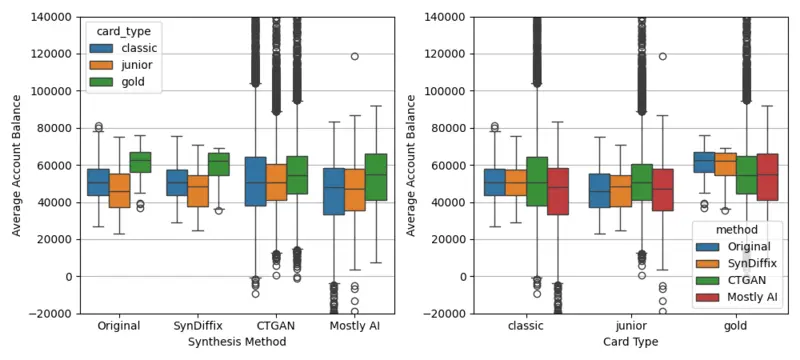
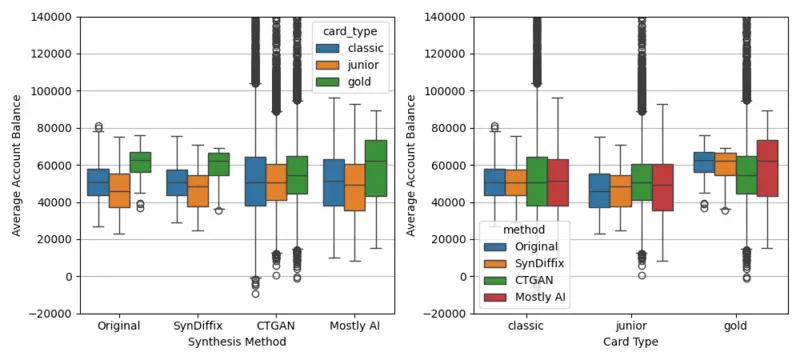
Deploying to gh-pages from @ diffix/diffix.github.io@a883c35580f94e7ebebc2cd2ef4d348e541bde79 🚀

diff --git a/syndiffix-mostlyai-ctgan.html b/syndiffix-mostlyai-ctgan.html
@@ -1,1 +1,1 @@
-<!DOCTYPE html> <html lang="en"> <head> <meta http-equiv="Content-Type" content="text/html; charset=UTF-8"> <meta charset="utf-8"> <meta name="viewport" content="width=device-width, initial-scale=1, shrink-to-fit=no"> <meta http-equiv="X-UA-Compatible" content="IE=edge"> <title>Comparison of SynDiffix, Mostly AI, and CTGAN | Open Diffix</title> <meta name="author" content="Open Diffix"> <meta name="description" content="Strong Anonymization for Structured Data. Open. Free. "> <meta name="keywords" content="Diffix, Anonymization, Privacy, Synthetic Data"> <link rel="stylesheet" href="/assets/css/bootstrap.min.css?a4b3f509e79c54a512b890d73235ef04"> <link rel="stylesheet" href="https://cdn.jsdelivr.net/npm/mdbootstrap@4.20.0/css/mdb.min.css" integrity="sha256-jpjYvU3G3N6nrrBwXJoVEYI/0zw8htfFnhT9ljN3JJw=" crossorigin="anonymous"> <link defer rel="stylesheet" href="https://unpkg.com/bootstrap-table@1.22.1/dist/bootstrap-table.min.css"> <link rel="stylesheet" href="/assets/css/academicons.min.css?f0b7046b84e425c55f3463ac249818f5"> <link rel="stylesheet" type="text/css" href="https://fonts.googleapis.com/css?family=Roboto:300,400,500,700|Roboto+Slab:100,300,400,500,700|Material+Icons"> <link rel="stylesheet" href="/assets/css/jekyll-pygments-themes-github.css?19f3075a2d19613090fe9e16b564e1fe" media="" id="highlight_theme_light"> <link rel="shortcut icon" href="/assets/img/favicon.ico?7eb2bb23eedae5da2c9d3ad96310e408"> <link rel="stylesheet" href="/assets/css/main.css?d41d8cd98f00b204e9800998ecf8427e"> <link rel="canonical" href="https://www.open-diffix.org/syndiffix-mostlyai-ctgan"> </head> <body class="fixed-top-nav sticky-bottom-footer"> <header> <nav id="navbar" class="navbar navbar-light navbar-expand-sm fixed-top"> <div class="container"> <a class="navbar-brand title font-weight-lighter" href="/"> <img src="/assets/img/logo-flat.png" alt="Open Diffix Logo" width="26" height="26" style="margin-top: -2px; margin-right: 1px;"> <span class="font-weight-bold"> <span style="color: #0eb896;">Open</span> <span style="color: #3385e1;">Diffix</span> </span> </a> <button class="navbar-toggler collapsed ml-auto" type="button" data-toggle="collapse" data-target="#navbarNav" aria-controls="navbarNav" aria-expanded="false" aria-label="Toggle navigation"> <span class="sr-only">Toggle navigation</span> <span class="icon-bar top-bar"></span> <span class="icon-bar middle-bar"></span> <span class="icon-bar bottom-bar"></span> </button> <div class="collapse navbar-collapse text-right" id="navbarNav"> <ul class="navbar-nav ml-auto flex-nowrap"> <li class="nav-item "> <a class="nav-link" href="/">Home</a> </li> <li class="nav-item "> <a class="nav-link" href="/syndiffix">SynDiffix</a> </li> </ul> </div> </div> </nav> <progress id="progress" value="0"> <div class="progress-container"> <span class="progress-bar"></span> </div> </progress> </header> <div class="container mt-5"> <div class="post"> <header class="post-header"> <h1 class="post-title">Comparison of SynDiffix, Mostly AI, and CTGAN</h1> <p class="post-description"></p> </header> <article> <p>Compared to other commercial and open-source data synthesis tools, the strength of SynDiffix is its accuracy. Here we compare the accuracy of open-source SynDiffix with the commercial tool <a href="https://mostly.ai" rel="external nofollow noopener" target="_blank">Mostly AI</a> and the open-source tool CTGAN from <a href="https://sdv.dev/" rel="external nofollow noopener" target="_blank">SDV</a>.</p> <p>For this comparison, we use the <a href="https://data.world/lpetrocelli/czech-financial-dataset-real-anonymized-transactions" rel="external nofollow noopener" target="_blank">Czech banking dataset</a>. See <a href="#how-the-synthetic-data-was-created">here</a> for a description of how we generated the synthetic datasets. Note in particular that we used the tools as they were designed to be used: multiple synthetic datasets for SynDiffix, and single datasets for Mostly AI and CTGAN. See <a href="#how-the-comparison-is-and-isnt-fair">here</a> for a discussion of how this comparison is and isn’t fair.</p> <p>The code for some of the following examples can be found <a href="https://github.com/diffix/syndiffix/blob/main/docs/time-series.ipynb" rel="external nofollow noopener" target="_blank">here</a>.</p> <h2 id="distribution-of-deposit-and-withdrawal-amounts">Distribution of deposit and withdrawal amounts</h2> <p>There are five types of transaction operations. One of them represents deposits (VKLAD), while the other four represent different types of withdrawals (at least as near as we can tell from the Czech translations).</p> <p>The following graph shows the distribution of deposit and withdrawal amounts for all transactions. Each line is independently sorted from largest to smallest amount. The group of lines on the left are for deposits, which are less numerous.</p> <p><img src="/assets/img/trans_account_card_clients.amount.operation.png" alt="SynDiffix usage style" class="img-fluid mx-auto d-block" style="max-width: 400px; width: 100%;"></p> <p>The SynDiffix data was created be first creating a two-column table from the original data consisting of transaction <code class="language-plaintext highlighter-rouge">amount</code> and transaction <code class="language-plaintext highlighter-rouge">type</code>. This was then synthesized to produce the synthetic dataset.</p> <p>The important thing to note is that the SynDiffix lines almost perfectly track the original lines. Note that it was necessary to make the Original line thicker so that it is not completely occluded by the SynDiffix line.</p> <p>For withdrawals, Mostly AI tracks the original data very well until the lower right, where Mostly AI fails to accurately track a series of nearly 200k withdrawals all at around 150 units. Mostly AI also tracks original deposits well, except that there are a small number of small deposits that don’t appear in the original data. CTGAN is substantially less accurate overall.</p> <h2 id="total-transaction-volume-per-month">Total transaction volume per month</h2> <p>The following plot shows the total transaction volume (sum of all transaction amounts) for each month. The two smaller plots zoom in on the two boxed areas.</p> <p><img src="/assets/img/trans_account_card_clients.amount.month.grid.png" alt="SynDiffix usage style" class="img-fluid mx-auto d-block" style="max-width: 600px; width: 100%;"></p> <p>The SynDiffix data was produced by rounding the transaction date to the month, and then producing a two-column table with <code class="language-plaintext highlighter-rouge">month</code> and <code class="language-plaintext highlighter-rouge">amount</code>. This table was then synthesized.</p> <p>Once again, the SynDiffix line tracks the original data almost perfectly. The zoom-in plots show a very slight difference from the original data.</p> <p>Mostly AI tracks the original data quite well until the last year, where it diverges substantially. The two zoom-in boxes show that even where Mostly AI tracks well, it is still substantially less accurate than SynDiffix. The CTGAN line manages to show the correct upward trend, but otherwise is quite inaccurate.</p> <h2 id="distribution-of-maximum-balance-for-all-accounts">Distribution of maximum balance for all accounts</h2> <p>The following plot gives the distribution of the maximum balance for each account. Each line is sorted independently from highest to lowest maximum balance.</p> <p><img src="/assets/img/trans_account_card_clients.max_balance.png" alt="SynDiffix usage style" class="img-fluid mx-auto d-block" style="max-width: 400px; width: 100%;"></p> <p>The SynDiffix data was produced by first computing the maximum balance for each account from the original data, creating a one-column table consisting of the maximum balance, with one row per account. This was then synthesized.</p> <p>The CTGAN line is not shown because it is too far away from the other lines.</p> <p>SynDiffix tracks the original data almost perfectly, with the exception that a small number of the highest maximum balances are not tracked. SynDiffix suppresses these values because they are outliers that pertain to too few accounts. The Mostly AI line is far less accurate.</p> <h2 id="how-the-synthetic-data-was-created">How the synthetic data was created</h2> <p>The Czech banking dataset has seven relational tables. Three of them (loans, orders, and transactions) are time-series tables. The others contain information about clients (banking customers), accounts, and credit cards. To build the synthetic datasets, we joined the client, account, and credit card information with the time-series data to create three extended tables. We then built three synthetic datasets each for Mostly AI and CTGAN from the three extended tables.</p> <p>Our comparison uses only the extended transactions table. It has the following 21 columns:</p> <table> <thead> <tr> <th>Column</th> <th>Source table</th> </tr> </thead> <tbody> <tr> <td>trans_id</td> <td>trans</td> </tr> <tr> <td>account_id</td> <td>trans</td> </tr> <tr> <td>date</td> <td>trans</td> </tr> <tr> <td>type</td> <td>trans</td> </tr> <tr> <td>operation</td> <td>trans</td> </tr> <tr> <td>amount</td> <td>trans</td> </tr> <tr> <td>balance</td> <td>trans</td> </tr> <tr> <td>k_symbol</td> <td>trans</td> </tr> <tr> <td>bank</td> <td>trans</td> </tr> <tr> <td>account</td> <td>trans</td> </tr> <tr> <td>district_id</td> <td>account</td> </tr> <tr> <td>frequency</td> <td>account</td> </tr> <tr> <td>account_date</td> <td>account</td> </tr> <tr> <td>card_type</td> <td>card</td> </tr> <tr> <td>card_issued</td> <td>card</td> </tr> <tr> <td>owner_birth</td> <td>client</td> </tr> <tr> <td>owner_district_id</td> <td>client</td> </tr> <tr> <td>owner_sex</td> <td>client</td> </tr> <tr> <td>disponent_birth</td> <td>client</td> </tr> <tr> <td>disponent_district_id</td> <td>client</td> </tr> <tr> <td>disponent_sex</td> <td>client</td> </tr> </tbody> </table> <p>To make the Mostly AI synthetic dataset, we used the free service available at <a href="https://mostly.ai" rel="external nofollow noopener" target="_blank">mostly.ai</a>. We used the subject-linked option, which captures the time series aspect of the data. We built a synthetic dataset with the same number of accounts (4500) and nearly the same number of rows (1059409) as the original table.</p> <p>To make the CTGAN synthetic dataset, we used the SDV Python tool. SDV has options for synthesizing both time-series and non-time-series, but unfortunately we were unable to make a time-series dataset because our system did not have enough memory (the system had 1.5TB of memory, but this was not enough). Therefore, we used the non-time-series option to build a synthetic dataset with the same number of rows as the original table (1056320), but with around 10k accounts.</p> <p>Both the Mostly AI and CTGAN datasets were built using system defaults.</p> <h2 id="how-the-comparison-is-and-isnt-fair">How the comparison is and isn’t fair</h2> <p>The usage style of SynDiffix is different from that of other synthetic data tools. SynDiffix is designed to remain anonymous no matter how many different synthetic datasets are built from the original data. This allows us to build synthetic datasets containing only the columns of interest for the given analysis question. This maximizes accuracy. We built a separate SynDiffix synthetic dataset for each of the comparison examples.</p> <p>By contrast, we built only a single transactions synthetic dataset each for Mostly AI and CTGAN. All of the comparison examples used these datasets. In principle, we could have also built separate datasets for each comparison example for Mostly AI and CTGAN. Doing so would have resulted in better accuracy (though probably still not as good as SynDiffix, as <a href="https://arxiv.org/abs/2311.09628" rel="external nofollow noopener" target="_blank">this paper</a> shows). In this sense, the comparison is not apples-to-apples.</p> <p>Nevertheless, we choose to make the comparison this way for the following reasons:</p> <h3 id="synthetic-data-products-are-marketed-as-one-size-fits-all">Synthetic data products are marketed as one-size-fits-all</h3> <p>Synthetic data products are marketed as one-size-fits-all: the promise is that a single dataset accurately captures the statistical characteristics of the original data. It seems fair to take this marketing at its word, and use it as it is designed to be used.</p> <h3 id="the-privacy-of-synthetic-data-products-erodes-with-multiple-syntheses">The privacy of synthetic data products erodes with multiple syntheses</h3> <p>Unlike SynDiffix, the anonymity of other synthetic data products weakens with each data synthesis, at least in theory. As such, a comparison of multiple SynDiffix synthetic datasets against a single Mostly AI or CTGAN synthetic dataset is fair from a privacy perspective. Whether generating a large number of synthetic datasets with other products results in real risks in practice is unknown, though it does seem unlikely that generating a relatively small number of datasets leads to practical risks.</p> </article> </div> </div> <footer class="sticky-bottom mt-5"> <div class="container"> © Copyright 2024 Open Diffix. Powered by <a href="https://jekyllrb.com/" target="_blank" rel="external nofollow noopener">Jekyll</a> with <a href="https://github.com/alshedivat/al-folio" rel="external nofollow noopener" target="_blank">al-folio</a> theme. Hosted by <a href="https://pages.github.com/" target="_blank" rel="external nofollow noopener">GitHub Pages</a>. </div> </footer> <script src="https://cdn.jsdelivr.net/npm/jquery@3.6.0/dist/jquery.min.js" integrity="sha256-/xUj+3OJU5yExlq6GSYGSHk7tPXikynS7ogEvDej/m4=" crossorigin="anonymous"></script> <script src="/assets/js/bootstrap.bundle.min.js"></script> <script src="https://cdn.jsdelivr.net/npm/mdbootstrap@4.20.0/js/mdb.min.js" integrity="sha256-NdbiivsvWt7VYCt6hYNT3h/th9vSTL4EDWeGs5SN3DA=" crossorigin="anonymous"></script> <script defer src="https://cdn.jsdelivr.net/npm/medium-zoom@1.0.8/dist/medium-zoom.min.js" integrity="sha256-7PhEpEWEW0XXQ0k6kQrPKwuoIomz8R8IYyuU1Qew4P8=" crossorigin="anonymous"></script> <script defer src="/assets/js/zoom.js?7b30caa5023af4af8408a472dc4e1ebb"></script> <script defer src="https://unpkg.com/bootstrap-table@1.22.1/dist/bootstrap-table.min.js"></script> <script src="/assets/js/no_defer.js?d633890033921b33e0ceb13d22340a9c"></script> <script defer src="/assets/js/common.js?acdb9690d7641b2f8d40529018c71a01"></script> <script defer src="/assets/js/copy_code.js?c9d9dd48933de3831b3ee5ec9c209cac" type="text/javascript"></script> <script type="text/javascript">window.MathJax={tex:{tags:"ams"}};</script> <script defer type="text/javascript" id="MathJax-script" src="https://cdn.jsdelivr.net/npm/mathjax@3.2.0/es5/tex-mml-chtml.js"></script> <script defer src="https://polyfill.io/v3/polyfill.min.js?features=es6"></script> <script type="text/javascript">function progressBarSetup(){"max"in document.createElement("progress")?(initializeProgressElement(),$(document).on("scroll",function(){progressBar.attr({value:getCurrentScrollPosition()})}),$(window).on("resize",initializeProgressElement)):(resizeProgressBar(),$(document).on("scroll",resizeProgressBar),$(window).on("resize",resizeProgressBar))}function getCurrentScrollPosition(){return $(window).scrollTop()}function initializeProgressElement(){let e=$("#navbar").outerHeight(!0);$("body").css({"padding-top":e}),$("progress-container").css({"padding-top":e}),progressBar.css({top:e}),progressBar.attr({max:getDistanceToScroll(),value:getCurrentScrollPosition()})}function getDistanceToScroll(){return $(document).height()-$(window).height()}function resizeProgressBar(){progressBar.css({width:getWidthPercentage()+"%"})}function getWidthPercentage(){return getCurrentScrollPosition()/getDistanceToScroll()*100}const progressBar=$("#progress");window.onload=function(){setTimeout(progressBarSetup,50)};</script> </body> </html>
+<!DOCTYPE html> <html lang="en"> <head> <meta http-equiv="Content-Type" content="text/html; charset=UTF-8"> <meta charset="utf-8"> <meta name="viewport" content="width=device-width, initial-scale=1, shrink-to-fit=no"> <meta http-equiv="X-UA-Compatible" content="IE=edge"> <title>Comparison of SynDiffix, Mostly AI, and CTGAN | Open Diffix</title> <meta name="author" content="Open Diffix"> <meta name="description" content="Strong Anonymization for Structured Data. Open. Free. "> <meta name="keywords" content="Diffix, Anonymization, Privacy, Synthetic Data"> <link rel="stylesheet" href="/assets/css/bootstrap.min.css?a4b3f509e79c54a512b890d73235ef04"> <link rel="stylesheet" href="https://cdn.jsdelivr.net/npm/mdbootstrap@4.20.0/css/mdb.min.css" integrity="sha256-jpjYvU3G3N6nrrBwXJoVEYI/0zw8htfFnhT9ljN3JJw=" crossorigin="anonymous"> <link defer rel="stylesheet" href="https://unpkg.com/bootstrap-table@1.22.1/dist/bootstrap-table.min.css"> <link rel="stylesheet" href="/assets/css/academicons.min.css?f0b7046b84e425c55f3463ac249818f5"> <link rel="stylesheet" type="text/css" href="https://fonts.googleapis.com/css?family=Roboto:300,400,500,700|Roboto+Slab:100,300,400,500,700|Material+Icons"> <link rel="stylesheet" href="/assets/css/jekyll-pygments-themes-github.css?19f3075a2d19613090fe9e16b564e1fe" media="" id="highlight_theme_light"> <link rel="shortcut icon" href="/assets/img/favicon.ico?7eb2bb23eedae5da2c9d3ad96310e408"> <link rel="stylesheet" href="/assets/css/main.css?d41d8cd98f00b204e9800998ecf8427e"> <link rel="canonical" href="https://www.open-diffix.org/syndiffix-mostlyai-ctgan"> </head> <body class="fixed-top-nav sticky-bottom-footer"> <header> <nav id="navbar" class="navbar navbar-light navbar-expand-sm fixed-top"> <div class="container"> <a class="navbar-brand title font-weight-lighter" href="/"> <img src="/assets/img/logo-flat.png" alt="Open Diffix Logo" width="26" height="26" style="margin-top: -2px; margin-right: 1px;"> <span class="font-weight-bold"> <span style="color: #0eb896;">Open</span> <span style="color: #3385e1;">Diffix</span> </span> </a> <button class="navbar-toggler collapsed ml-auto" type="button" data-toggle="collapse" data-target="#navbarNav" aria-controls="navbarNav" aria-expanded="false" aria-label="Toggle navigation"> <span class="sr-only">Toggle navigation</span> <span class="icon-bar top-bar"></span> <span class="icon-bar middle-bar"></span> <span class="icon-bar bottom-bar"></span> </button> <div class="collapse navbar-collapse text-right" id="navbarNav"> <ul class="navbar-nav ml-auto flex-nowrap"> <li class="nav-item "> <a class="nav-link" href="/">Home</a> </li> <li class="nav-item "> <a class="nav-link" href="/syndiffix">SynDiffix</a> </li> </ul> </div> </div> </nav> <progress id="progress" value="0"> <div class="progress-container"> <span class="progress-bar"></span> </div> </progress> </header> <div class="container mt-5"> <div class="post"> <header class="post-header"> <h1 class="post-title">Comparison of SynDiffix, Mostly AI, and CTGAN</h1> <p class="post-description"></p> </header> <article> <p>Compared to other commercial and open-source data synthesis tools, the strength of SynDiffix is its accuracy. Here we compare the accuracy of open-source SynDiffix with the commercial tool <a href="https://mostly.ai" rel="external nofollow noopener" target="_blank">Mostly AI</a> and the open-source tool CTGAN from <a href="https://sdv.dev/" rel="external nofollow noopener" target="_blank">SDV</a>.</p> <p>For this comparison, we use the <a href="https://data.world/lpetrocelli/czech-financial-dataset-real-anonymized-transactions" rel="external nofollow noopener" target="_blank">Czech banking dataset</a>. See <a href="#how-the-synthetic-data-was-created">here</a> for a description of how we generated the synthetic datasets. Note in particular that we used the tools as they were designed to be used: multiple synthetic datasets for SynDiffix, and single datasets for Mostly AI and CTGAN. See <a href="#how-the-comparison-is-and-isnt-fair">here</a> for a discussion of how this comparison is and isn’t fair.</p> <p>The code for some of the following examples can be found <a href="https://github.com/diffix/syndiffix/blob/main/docs/time-series.ipynb" rel="external nofollow noopener" target="_blank">here</a>.</p> <h2 id="average-account-balance-by-type-of-credit-card">Average account balance by type of credit card</h2> <p>892 of the 4500 bank accounts have credit cards. There are three classes of card, ‘junior’, ‘classic’, and ‘gold’. Here we ask the question, “Does the average account balance differ based on the credit card class?”</p> <p>The following graphs are percentile boxplots (100th, 75th, 50th, 25th, and 0th percentiles, plus outliers) of the average account balance for each account with a credit card. The two plots show the same data, but grouped by synthesis method on the left, and by card type on the right.</p> <p><img src="/assets/img/trans_account_card_clients.avg_balance.card_type.png" alt="SynDiffix usage style" class="img-fluid mx-auto d-block" style="max-width: 650px; width: 100%;"></p> <p>The SynDiffix synthetic data was produced by first computing the average balance per account from the original data to produce a two-column table consisting of the <code class="language-plaintext highlighter-rouge">avg_balance</code> and the <code class="language-plaintext highlighter-rouge">card_type</code>, with one row per account (i.e. not time-series data). This two-column table was then synthesized.</p> <p>From the original data, we see that indeed gold credit card holders have higher average account balances than classic card holders, which in turn are a little higher than junior card holders. The data for SynDiffix is very close to the original data, and accurately shows the same trend. The high and low values are pulled in a little bit, which is due to SynDiffix’ tendency to hide outlier values.</p> <p>Mostly AI also shows the same trend, and the median account balances track the original data very closely. In contrast to SynDiffix, the high and low account balances tend to be spread out.</p> <p>While CTGAN shows the median account balance to be slightly higher for gold card holders, overall it does not capture the trend. Its high and low values are extreme, in some cases showing negative balances where none should exist.</p> <h2 id="distribution-of-deposit-and-withdrawal-amounts">Distribution of deposit and withdrawal amounts</h2> <p>There are five types of transaction operations. One of them represents deposits (VKLAD), while the other four represent different types of withdrawals (at least as near as we can tell from the Czech translations).</p> <p>The following graph shows the distribution of deposit and withdrawal amounts for all transactions. Each line is independently sorted from largest to smallest amount. The group of lines on the left are for deposits, which are less numerous.</p> <p><img src="/assets/img/trans_account_card_clients.amount.operation.png" alt="SynDiffix usage style" class="img-fluid mx-auto d-block" style="max-width: 400px; width: 100%;"></p> <p>The SynDiffix data was created be first creating a two-column table from the original data consisting of transaction <code class="language-plaintext highlighter-rouge">amount</code> and transaction <code class="language-plaintext highlighter-rouge">type</code>. This was then synthesized to produce the synthetic dataset.</p> <p>The important thing to note is that the SynDiffix lines almost perfectly track the original lines. Note that it was necessary to make the Original line thicker so that it is not completely occluded by the SynDiffix line.</p> <p>For withdrawals, Mostly AI tracks the original data very well until the lower right, where Mostly AI fails to accurately track a series of nearly 200k withdrawals all at around 150 units. Mostly AI also tracks original deposits well, except that there are a small number of small deposits that don’t appear in the original data. CTGAN is substantially less accurate overall.</p> <h2 id="total-transaction-volume-per-month">Total transaction volume per month</h2> <p>The following plot shows the total transaction volume (sum of all transaction amounts) for each month.</p> <p><img src="/assets/img/trans_account_card_clients.amount.month.png" alt="SynDiffix usage style" class="img-fluid mx-auto d-block" style="max-width: 400px; width: 100%;"></p> <p>The SynDiffix data was produced by rounding the transaction date to the month, and then producing a two-column table with <code class="language-plaintext highlighter-rouge">month</code> and <code class="language-plaintext highlighter-rouge">amount</code>. This table was then synthesized.</p> <p>Once again, the SynDiffix line tracks the original data almost perfectly.</p> <p>While both the Mostly AI and CTGAN transactions have the right increasing trend, both are quite inaccurate.</p> <h2 id="distribution-of-maximum-balance-for-all-accounts">Distribution of maximum balance for all accounts</h2> <p>The following plot gives the distribution of the maximum balance for each account. Each line is sorted independently from highest to lowest maximum balance.</p> <p><img src="/assets/img/trans_account_card_clients.max_balance.png" alt="SynDiffix usage style" class="img-fluid mx-auto d-block" style="max-width: 400px; width: 100%;"></p> <p>The SynDiffix data was produced by first computing the maximum balance for each account from the original data, creating a one-column table consisting of the maximum balance, with one row per account. This was then synthesized.</p> <p>The CTGAN line is not shown because it is too far away from the other lines.</p> <p>SynDiffix tracks the original data almost perfectly, with the exception that a small number of the highest maximum balances are not tracked. SynDiffix suppresses these values because they are outliers that pertain to too few accounts. The Mostly AI line is far less accurate.</p> <h2 id="how-the-synthetic-data-was-created">How the synthetic data was created</h2> <p>The Czech banking dataset has seven relational tables. Three of them (loans, orders, and transactions) are time-series tables. The others contain information about clients (banking customers), accounts, and credit cards. To build the synthetic datasets, we joined the client, account, and credit card information with the time-series data to create three extended tables. We then built three synthetic datasets each for Mostly AI and CTGAN from the three extended tables.</p> <p>Our comparison uses only the extended transactions table. It has the following 21 columns:</p> <table> <thead> <tr> <th>Column</th> <th>Source table</th> </tr> </thead> <tbody> <tr> <td>trans_id</td> <td>trans</td> </tr> <tr> <td>account_id</td> <td>trans</td> </tr> <tr> <td>date</td> <td>trans</td> </tr> <tr> <td>type</td> <td>trans</td> </tr> <tr> <td>operation</td> <td>trans</td> </tr> <tr> <td>amount</td> <td>trans</td> </tr> <tr> <td>balance</td> <td>trans</td> </tr> <tr> <td>k_symbol</td> <td>trans</td> </tr> <tr> <td>bank</td> <td>trans</td> </tr> <tr> <td>account</td> <td>trans</td> </tr> <tr> <td>district_id</td> <td>account</td> </tr> <tr> <td>frequency</td> <td>account</td> </tr> <tr> <td>account_date</td> <td>account</td> </tr> <tr> <td>card_type</td> <td>card</td> </tr> <tr> <td>card_issued</td> <td>card</td> </tr> <tr> <td>owner_birth</td> <td>client</td> </tr> <tr> <td>owner_district_id</td> <td>client</td> </tr> <tr> <td>owner_sex</td> <td>client</td> </tr> <tr> <td>disponent_birth</td> <td>client</td> </tr> <tr> <td>disponent_district_id</td> <td>client</td> </tr> <tr> <td>disponent_sex</td> <td>client</td> </tr> </tbody> </table> <p>To make the Mostly AI synthetic dataset, we used the free service available at <a href="https://mostly.ai" rel="external nofollow noopener" target="_blank">mostly.ai</a>. We used the subject-linked option, which captures the time series aspect of the data. We built a synthetic dataset with the same number of accounts (4500) and nearly the same number of rows (1059409) as the original table.</p> <p>To make the CTGAN synthetic dataset, we used the SDV Python tool. SDV has options for synthesizing both time-series and non-time-series, but unfortunately we were unable to make a time-series dataset because our system did not have enough memory (the system had 1.5TB of memory, but this was not enough). Therefore, we used the non-time-series option to build a synthetic dataset with the same number of rows as the original table (1056320), but with around 10k accounts.</p> <p>Both the Mostly AI and CTGAN datasets were built using system defaults.</p> <h2 id="how-the-comparison-is-and-isnt-fair">How the comparison is and isn’t fair</h2> <p>The usage style of SynDiffix is different from that of other synthetic data tools. SynDiffix is designed to remain anonymous no matter how many different synthetic datasets are built from the original data. This allows us to build synthetic datasets containing only the columns of interest for the given analysis question. This maximizes accuracy. We built a separate SynDiffix synthetic dataset for each of the comparison examples.</p> <p>By contrast, we built only a single transactions synthetic dataset each for Mostly AI and CTGAN. All of the comparison examples used these datasets. In principle, we could have also built separate datasets for each comparison example for Mostly AI and CTGAN. Doing so would have resulted in better accuracy (though probably still not as good as SynDiffix, as <a href="https://arxiv.org/abs/2311.09628" rel="external nofollow noopener" target="_blank">this paper</a> shows). In this sense, the comparison is not apples-to-apples.</p> <p>Nevertheless, we choose to make the comparison this way for the following reasons:</p> <h3 id="synthetic-data-products-are-marketed-as-one-size-fits-all">Synthetic data products are marketed as one-size-fits-all</h3> <p>Synthetic data products are marketed as one-size-fits-all: the promise is that a single dataset accurately captures the statistical characteristics of the original data. It seems fair to take this marketing at its word, and use it as it is designed to be used.</p> <h3 id="the-privacy-of-synthetic-data-products-erodes-with-multiple-syntheses">The privacy of synthetic data products erodes with multiple syntheses</h3> <p>Unlike SynDiffix, the anonymity of other synthetic data products weakens with each data synthesis, at least in theory. As such, a comparison of multiple SynDiffix synthetic datasets against a single Mostly AI or CTGAN synthetic dataset is fair from a privacy perspective. Whether generating a large number of synthetic datasets with other products results in real risks in practice is unknown, though it does seem unlikely that generating a relatively small number of datasets leads to practical risks.</p> </article> </div> </div> <footer class="sticky-bottom mt-5"> <div class="container"> © Copyright 2024 Open Diffix. Powered by <a href="https://jekyllrb.com/" target="_blank" rel="external nofollow noopener">Jekyll</a> with <a href="https://github.com/alshedivat/al-folio" rel="external nofollow noopener" target="_blank">al-folio</a> theme. Hosted by <a href="https://pages.github.com/" target="_blank" rel="external nofollow noopener">GitHub Pages</a>. </div> </footer> <script src="https://cdn.jsdelivr.net/npm/jquery@3.6.0/dist/jquery.min.js" integrity="sha256-/xUj+3OJU5yExlq6GSYGSHk7tPXikynS7ogEvDej/m4=" crossorigin="anonymous"></script> <script src="/assets/js/bootstrap.bundle.min.js"></script> <script src="https://cdn.jsdelivr.net/npm/mdbootstrap@4.20.0/js/mdb.min.js" integrity="sha256-NdbiivsvWt7VYCt6hYNT3h/th9vSTL4EDWeGs5SN3DA=" crossorigin="anonymous"></script> <script defer src="https://cdn.jsdelivr.net/npm/medium-zoom@1.0.8/dist/medium-zoom.min.js" integrity="sha256-7PhEpEWEW0XXQ0k6kQrPKwuoIomz8R8IYyuU1Qew4P8=" crossorigin="anonymous"></script> <script defer src="/assets/js/zoom.js?7b30caa5023af4af8408a472dc4e1ebb"></script> <script defer src="https://unpkg.com/bootstrap-table@1.22.1/dist/bootstrap-table.min.js"></script> <script src="/assets/js/no_defer.js?d633890033921b33e0ceb13d22340a9c"></script> <script defer src="/assets/js/common.js?acdb9690d7641b2f8d40529018c71a01"></script> <script defer src="/assets/js/copy_code.js?c9d9dd48933de3831b3ee5ec9c209cac" type="text/javascript"></script> <script type="text/javascript">window.MathJax={tex:{tags:"ams"}};</script> <script defer type="text/javascript" id="MathJax-script" src="https://cdn.jsdelivr.net/npm/mathjax@3.2.0/es5/tex-mml-chtml.js"></script> <script defer src="https://polyfill.io/v3/polyfill.min.js?features=es6"></script> <script type="text/javascript">function progressBarSetup(){"max"in document.createElement("progress")?(initializeProgressElement(),$(document).on("scroll",function(){progressBar.attr({value:getCurrentScrollPosition()})}),$(window).on("resize",initializeProgressElement)):(resizeProgressBar(),$(document).on("scroll",resizeProgressBar),$(window).on("resize",resizeProgressBar))}function getCurrentScrollPosition(){return $(window).scrollTop()}function initializeProgressElement(){let e=$("#navbar").outerHeight(!0);$("body").css({"padding-top":e}),$("progress-container").css({"padding-top":e}),progressBar.css({top:e}),progressBar.attr({max:getDistanceToScroll(),value:getCurrentScrollPosition()})}function getDistanceToScroll(){return $(document).height()-$(window).height()}function resizeProgressBar(){progressBar.css({width:getWidthPercentage()+"%"})}function getWidthPercentage(){return getCurrentScrollPosition()/getDistanceToScroll()*100}const progressBar=$("#progress");window.onload=function(){setTimeout(progressBarSetup,50)};</script> </body> </html>
